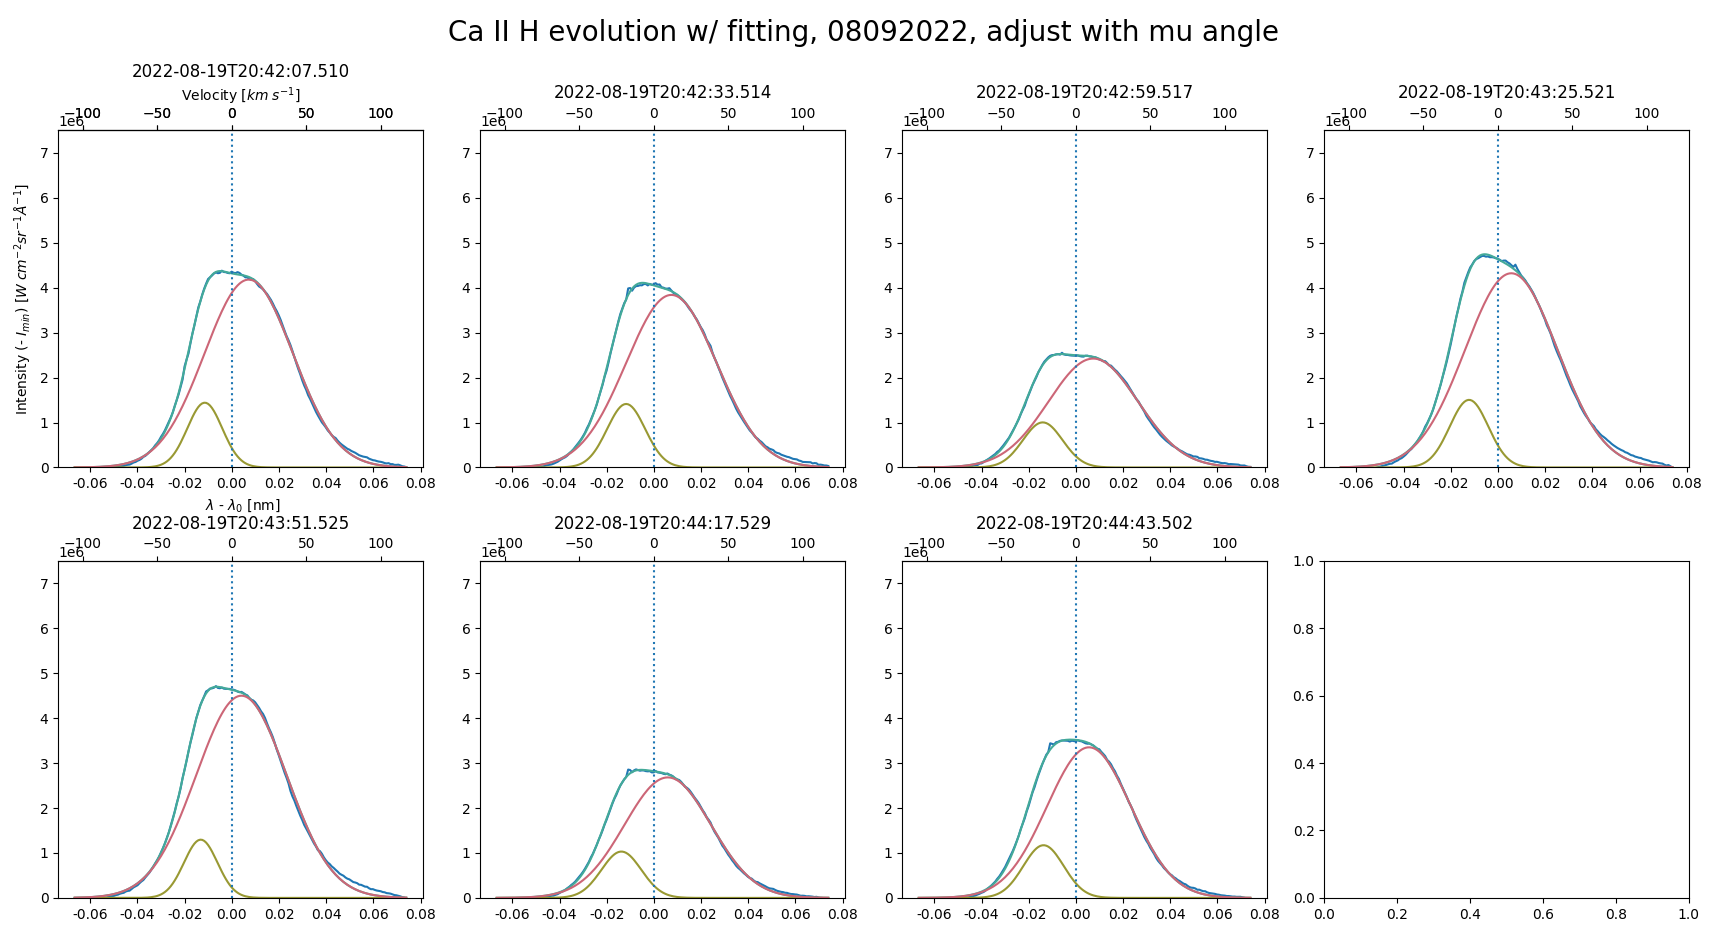
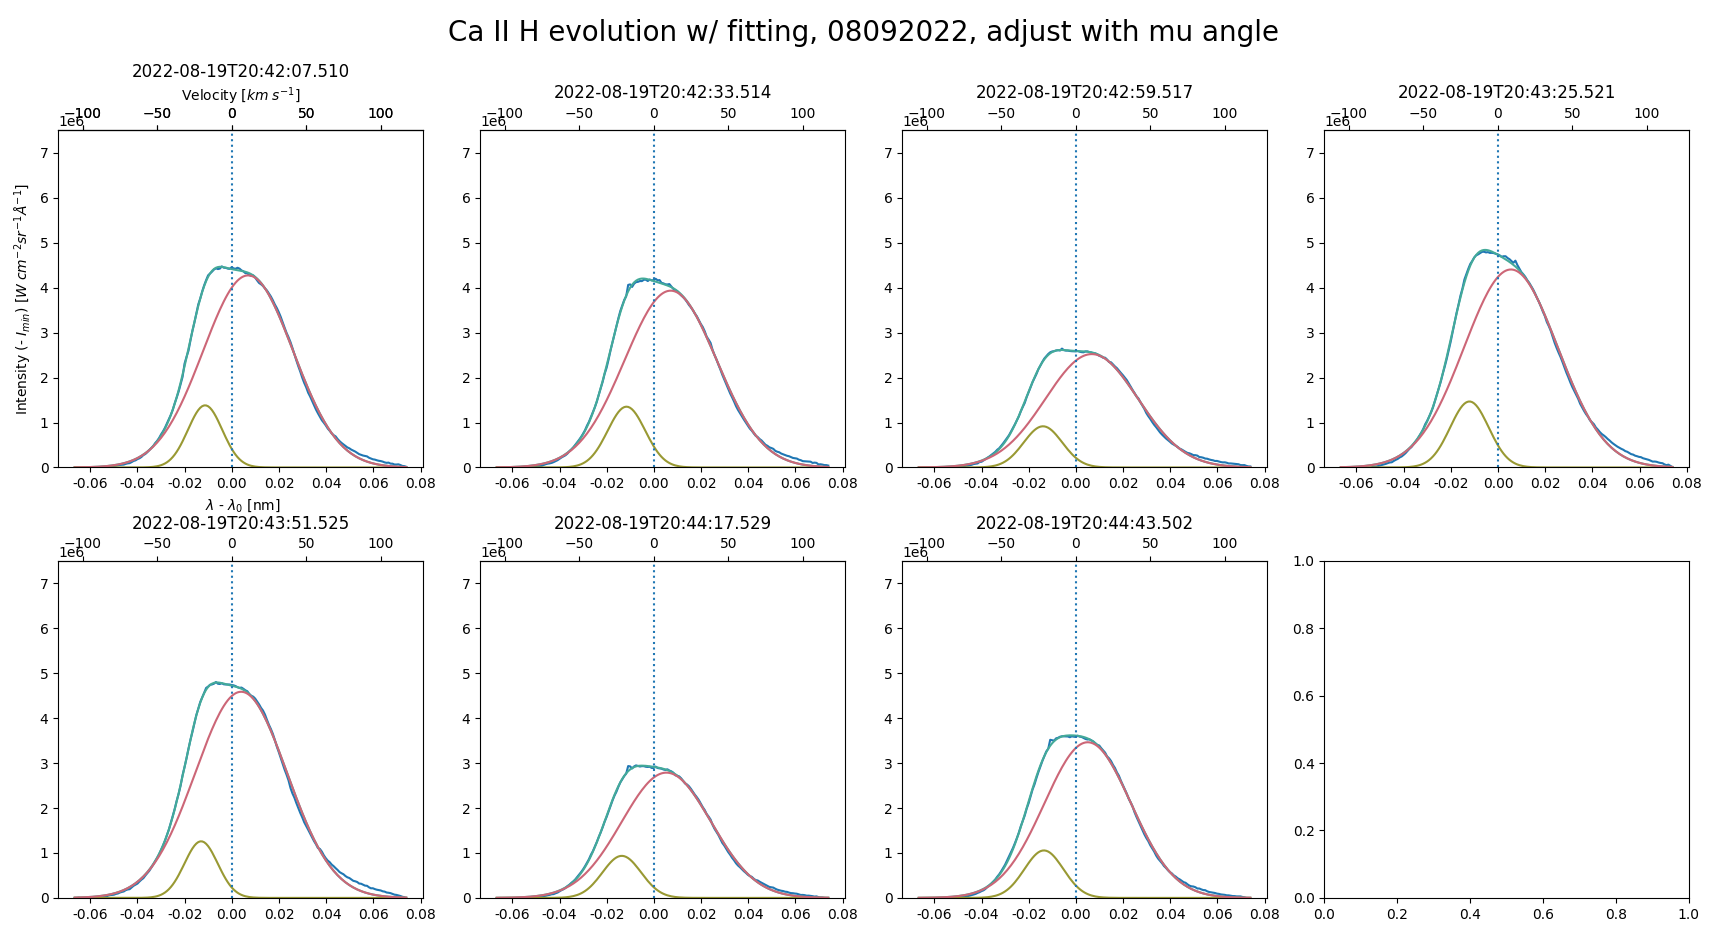
modification for clv_corrqs before qs subtract

diff --git a/19_Aug_2022_DKIST_analysis.py b/19_Aug_2022_DKIST_analysis.py
@@ -161,7 +161,7 @@ cont_mult_facts,fit_vals,new_dispersion_range=DKISTanalysis.get_calibration_poly
                                                    space_and_time_averaged_qs,new_dispersion_range,yconv,DKISTanalysis.find_nearest,
                                                    line1,line2,lowinds,highinds,limbdark_fact=clv_corrqs,
                                                    noqs_flag=2)
-calibrated_qs=fit_vals*space_and_time_averaged_qs
+calibrated_qs=fit_vals*space_and_time_averaged_qs/clv_corrqs
 nonflare_average_avg = calibrated_qs
 nonflare_multfact = fit_vals
 # intensity calibration, background subtraction                            
